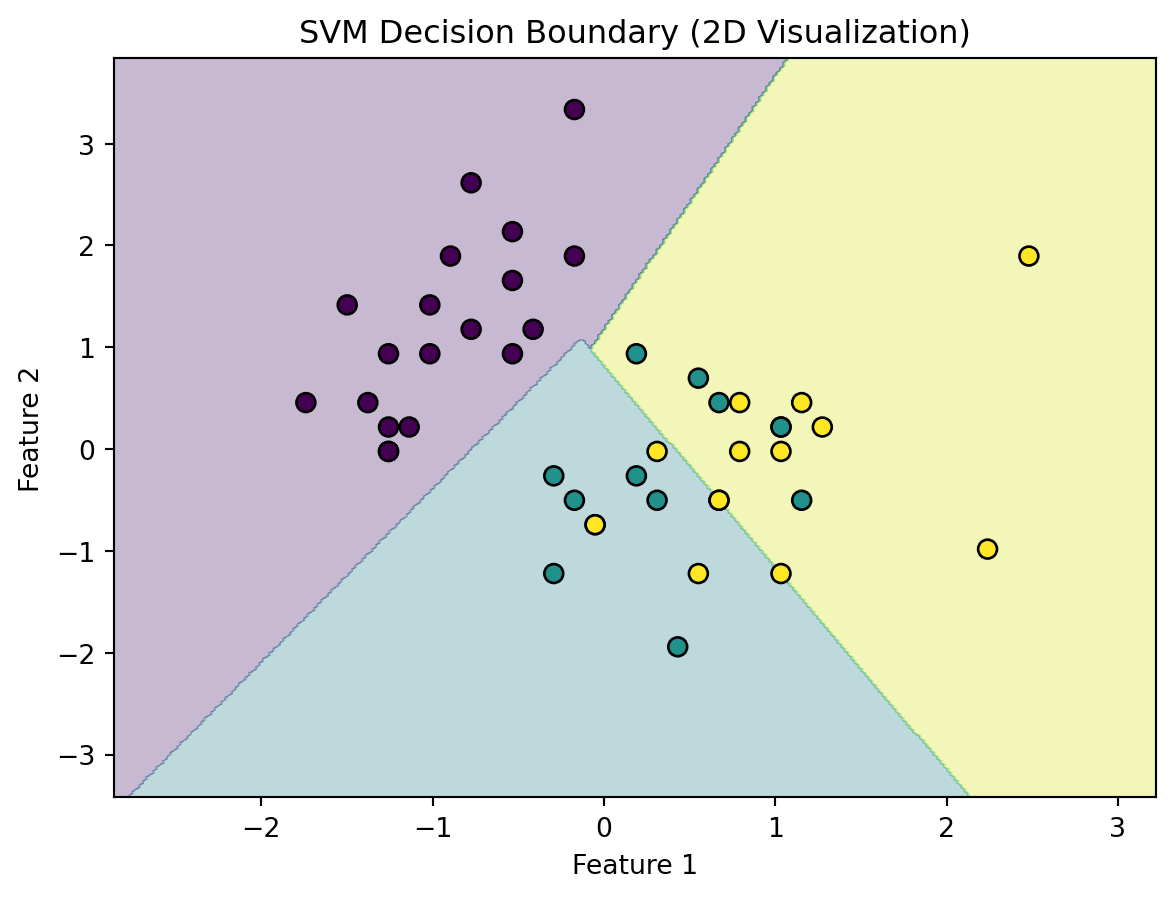
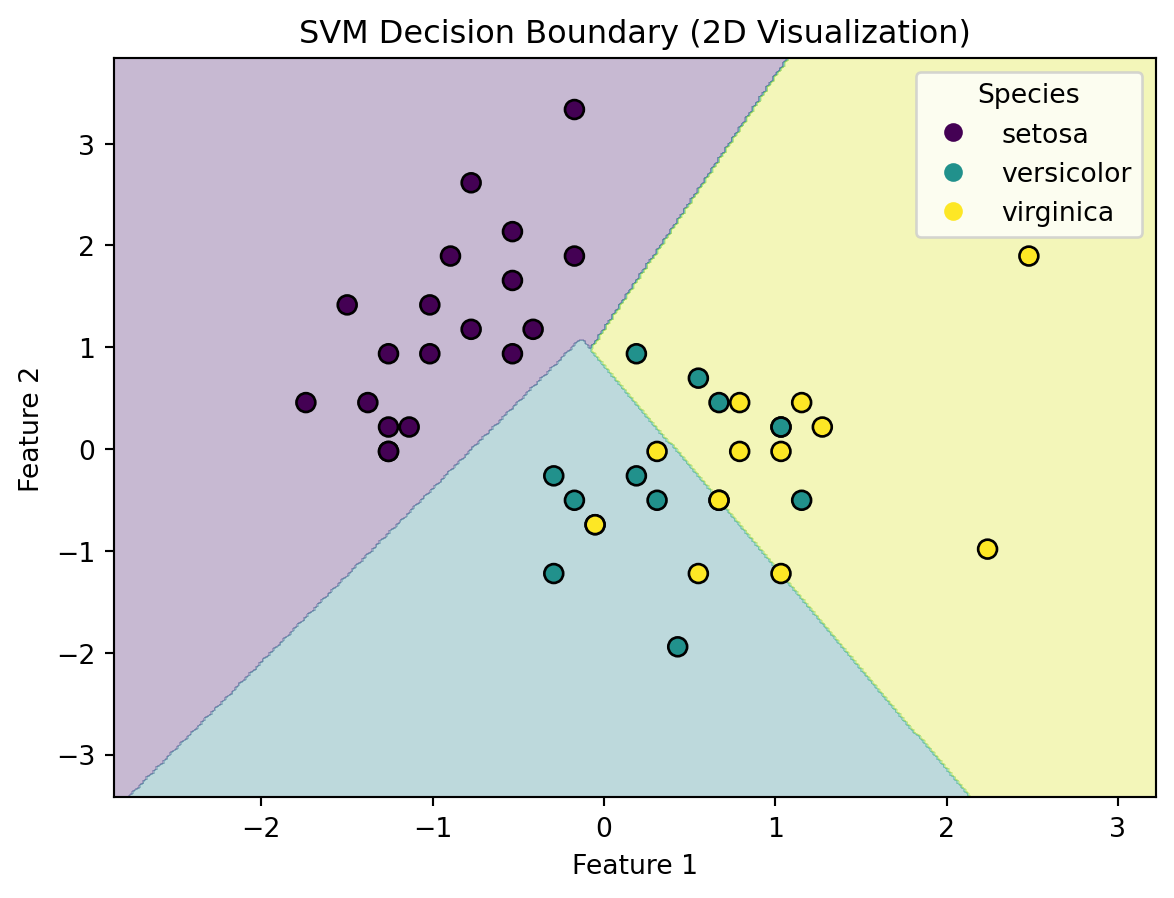
minor change

Changed region(s): [[0.7666, 0.0624, 0.9813, 0.2806]]

diff --git a/docs/posts/svm-tutorial/index.html b/docs/posts/svm-tutorial/index.html
@@ -182,7 +182,7 @@ pre > code.sourceCode > span > a:first-child::before { text-decoration: underlin
 <figcaption class="figure-caption">Figure from: “Build Email Spam Classification Model Using Python and SpaCy” by Divy Shah, Medium Blog post</figcaption>
 </figure>
 </div>
-<p>Classification can also reveal complex relationships between classes and patterns in the data. For example, in the context of fMRI data, classification helps researchers understand the relationship between neural activity patterns and cognitive or behavioral phenomena. Imagine we are showing a subject pictures of faces, scenes, and objects while recording their brain activity using fMRI. We know which picture was shown at each time point, allowing us to label the type of stimulus. The brain signals from each time point represent the features of that particular picture. With this labeled data, we can train a classifier to distinguish between images of faces, scenes, and objects. After training the classifier, we need to evaluate how well it can predict the category of an image it hasn’t seen before, like a new picture of a face. To verify this, we test it on a different set of images and measure its prediction accuracy. If it can predict the correct category more often than random guessing (which would yield a 33.33% accuracy with three classes), we can infer that the classifier has successfully learned to decode the brain signals associated with each stimulus type. If you are interested in learning more about classification for fMRI data, I would recommend checking out the <a href="https://brainiak.org/tutorials/">tutorials</a> from the Brain Imaging Analysis toolKit (BrainIAK).</p>
+<p>Classification can also reveal complex relationships between classes and patterns in the data. For example, in the context of fMRI data, classification helps researchers understand the relationship between neural activity patterns and cognitive or behavioral phenomena. Imagine we are showing a subject pictures of faces, scenes, and objects while recording their brain activity using fMRI. We know which picture was shown at each time point, allowing us to label the type of stimulus. With this labeled data, we can train a classifier to distinguish between images of faces, scenes, and objects. After training the classifier, we need to evaluate how well it can predict the category of an image it hasn’t seen before, like a new picture of a face. To verify this, we test it on a different set of images and measure its prediction accuracy. If it can predict the correct category more often than random guessing (which would yield a 33.33% accuracy with three classes), we can infer that the classifier has successfully learned to decode the brain activity associated with each stimulus type. If you are interested in learning more about classification for fMRI data, I would recommend checking out the <a href="https://brainiak.org/tutorials/">tutorials</a> from the Brain Imaging Analysis toolKit (BrainIAK).</p>
 <div class="quarto-figure quarto-figure-center">
 <figure class="figure">
 <p><img src="images/brain_decoding.jpg" class="img-fluid figure-img"></p>
@@ -193,7 +193,7 @@ pre > code.sourceCode > span > a:first-child::before { text-decoration: underlin
 </section>
 <section id="setup" class="level1">
 <h1>Setup</h1>
-<p>Before we dive into our example, ensure you have <code>scikit-learn</code> installed by following the <a href="https://scikit-learn.org/stable/install.html">installation instructions</a> specific to your operating system. You will also need to install the <a href="https://matplotlib.org/stable/users/installing/index.html"><code>matplotlib</code></a>, <a href="https://pandas.pydata.org/getting_started.html"><code>pandas</code></a>, <a href="https://seaborn.pydata.org/installing.html"><code>seaborn</code></a>, <a href="https://pypi.org/project/jupyter/"><code>jupyter</code></a>, and <a href="https://pypi.org/project/tabulate/"><code>tabulate</code></a> packages for data visualization. For most systems, running the below command in your bash shell should effectively download both packages:</p>
+<p>Before we dive into our example, ensure you have <code>scikit-learn</code> installed by following the <a href="https://scikit-learn.org/stable/install.html">installation instructions</a> specific to your operating system. You will also need to install the <a href="https://matplotlib.org/stable/users/installing/index.html"><code>matplotlib</code></a>, <a href="https://pandas.pydata.org/getting_started.html"><code>pandas</code></a>, <a href="https://seaborn.pydata.org/installing.html"><code>seaborn</code></a>, <a href="https://pypi.org/project/jupyter/"><code>jupyter</code></a>, and <a href="https://pypi.org/project/tabulate/"><code>tabulate</code></a> packages for data visualization. For most systems, running the below command in your bash shell should effectively download the packages:</p>
 <pre class="{bash}"><code>pip install scikit-learn matplotlib pandas seaborn jupyter tabulate</code></pre>
 <p>Next, we need to import the required libraries in Python:</p>
 <div class="cell" data-execution_count="1">
@@ -212,7 +212,7 @@ pre > code.sourceCode > span > a:first-child::before { text-decoration: underlin
 </section>
 <section id="dataset-preparation" class="level1">
 <h1>Dataset preparation</h1>
-<p>We are ready to run a classification analysis on the <a href="https://scikit-learn.org/stable/auto_examples/datasets/plot_iris_dataset.html">Iris dataset</a>.</p>
+<p>Now, we are ready to run a classification analysis on the <a href="https://scikit-learn.org/stable/auto_examples/datasets/plot_iris_dataset.html">Iris dataset</a>.</p>
 <p>The Iris dataset contains 150 samples, with each sample representing one of three species of iris flowers: Setosa, Versicolor, and Virginica. Each flower is described by four features: sepal length, sepal width, petal length, and petal width. The goal is to classify each flower into one of the three species based on these measurements. The simplicity and clear separability of the classes make this dataset an excellent choice for demonstrating the power and effectiveness of SVM classifiers.</p>
 <p>Our goal will be to classify different species of iris flowers based on their features.</p>
 <p>To ensure our classification model generalizes well to unseen data, we need to evaluate its performance on a separate subset of the data that isn’t used for training. To do this, we split the dataset into a training set and a testing set. In the provided code, <code>train_test_split</code> is used to randomly divide the data by allocating 70% to the training set (<code>X_train</code> and <code>y_train</code>) and 30% to the testing set (<code>X_test</code> and <code>y_test</code>). The <code>random_state</code> parameter ensures that the split is reproducible by producing the same random results each time.</p>
@@ -237,7 +237,7 @@ pre > code.sourceCode > span > a:first-child::before { text-decoration: underlin
 <p>With the data prepared, it’s time to train our SVM model! We will use the SVC (Support Vector Classification) class from <code>scikit-learn</code>.</p>
 <p>The training phase is crucial in machine learning. For SVM classifiers, training involves finding the best hyperplane that separates the classes in the feature space as distinctly as possible. Here’s a step-by-step breakdown of this process:</p>
 <ol type="1">
-<li><strong>Initialize the Classifier</strong>: We begin by initializing the SVM classifier. In this example, we use a linear kernel. The kernel choice depends on the dataset. Linear kernels are effective when there is a linear separability between the classes. However, for more complex datasets, other kernels such as polynomial or radial basis function (RBF) might be more suitable. We also specify a cost function (C), which is used to control the trade-off between achieving a low training error and maintaining a simpler, more generalizable decision boundary. A higher C value penalizes misclassifications more heavily, resulting in a narrower margin and fitting closely to the training data. This can help capture subtle patterns but also risks overfitting. A lower C value, however, softens the penalty for misclassifications, allowing more training points to fall within the margin, leading to a wider, more generalized decision boundary that is better at handling noise or variability in the data.</li>
+<li><strong>Initialize the Classifier</strong>: We begin by initializing the SVM classifier. In this example, we use a linear kernel. The kernel choice depends on the dataset. Linear kernels are effective when there is a linear separability between the classes. However, for more complex datasets, other kernels such as polynomial or radial basis function (RBF) might be more suitable. We also specify a cost function (C), which is used to control the trade-off between achieving a low training error and maintaining a simpler, more generalizable decision boundary. A higher C value penalizes misclassifications more heavily, resulting in a narrower margin and fitting closely to the training data. This can help capture subtle patterns but also risks overfitting. A lower C value softens the penalty for misclassifications, allowing more training points to fall within the margin. This leads to a wider, more generalized decision boundary that is better at handling noise or variability in the data.</li>
 <li><strong>Training the Model</strong>: This step involves fitting the classifier to the training data. The <code>fit</code> method of the SVC class takes the training data and the corresponding labels and finds the coefficients for the hyperplane that best separates the data according to the chosen kernel. SVM uses quadratic programming to optimize the separation margin. This involves solving a convex optimization problem to find the coefficients that maximize the margin while minimizing the classification error.</li>
 </ol>
 <div class="cell" data-result="hide" data-execution_count="3">
@@ -246,7 +246,7 @@ pre > code.sourceCode > span > a:first-child::before { text-decoration: underlin
 <span id="cb4-3"><a href="#cb4-3" aria-hidden="true" tabindex="-1"></a></span>
 <span id="cb4-4"><a href="#cb4-4" aria-hidden="true" tabindex="-1"></a><span class="co"># Train the model on the training data</span></span>
 <span id="cb4-5"><a href="#cb4-5" aria-hidden="true" tabindex="-1"></a>svc_model.fit(X_train, y_train)</span></code><button title="Copy to Clipboard" class="code-copy-button"><i class="bi"></i></button></pre></div>
-<div class="cell-output cell-output-display" data-execution_count="9">
+<div class="cell-output cell-output-display" data-execution_count="3">
 <pre><code>SVC(kernel='linear')</code></pre>
 </div>
 </div>
@@ -257,51 +257,57 @@ pre > code.sourceCode > span > a:first-child::before { text-decoration: underlin
 <p>How can we tell how well our model is performing?</p>
 <p><strong>Classication report:</strong> A classification report provides a summary of key evaluation metrics such as precision, recall, and F1 score for each class.</p>
 <ul>
-<li><strong>Precision</strong>: Out of all predictions made for a specific class, it represents how many were correct. It’s calculated as True Positives / (True Positives + False Positives).</li>
-<li><strong>Recall</strong>: The proportion of actual class samples that the model correctly identified. Calculated as True Positives / (True Positives + False Negatives).</li>
+<li><strong>Precision</strong>: Precision is the ratio of correctly predicted positive observations to the total predicted positives. It essentially answers the question: “Out of all the items labeled as a specific class, how many actually belong to that class?” Precision is calculated as True Positives / (True Positives + False Positives). High precision therefore corresponds to a low rate of false positives.</li>
+<li><strong>Recall</strong>: The proportion of actual class samples that the model correctly identified. Recall is calculated as True Positives / (True Positives + False Negatives). High recall corresponds to a low rate of false negatives.</li>
 <li><strong>F1 Score</strong>: The harmonic mean of precision and recall, providing a balanced metric that considers both measures.</li>
 <li><strong>Support</strong>: The number of occurrences of each class in the test set.</li>
 </ul>
+<p>In our case, the classification report shows a very high-performing model across all classes, with overall metrics close to 1, indicating that the classifier is both precise and robust in identifying the classes from the data.</p>
 <div class="cell" data-execution_count="4">
 <div class="sourceCode cell-code" id="cb6"><pre class="sourceCode python code-with-copy"><code class="sourceCode python"><span id="cb6-1"><a href="#cb6-1" aria-hidden="true" tabindex="-1"></a><span class="co"># Predict the labels for the test data</span></span>
 <span id="cb6-2"><a href="#cb6-2" aria-hidden="true" tabindex="-1"></a>y_pred <span class="op">=</span> svc_model.predict(X_test)</span>
 <span id="cb6-3"><a href="#cb6-3" aria-hidden="true" tabindex="-1"></a></span>
-<span id="cb6-4"><a href="#cb6-4" aria-hidden="true" tabindex="-1"></a><span class="co"># Create a pandas DataFrame from the classification report and confusion matrix</span></span>
+<span id="cb6-4"><a href="#cb6-4" aria-hidden="true" tabindex="-1"></a><span class="co"># Create a pandas DataFrame from the classification report</span></span>
 <span id="cb6-5"><a href="#cb6-5" aria-hidden="true" tabindex="-1"></a>report <span class="op">=</span> classification_report(y_test, y_pred, output_dict<span class="op">=</span><span class="va">True</span>)</span>
 <span id="cb6-6"><a href="#cb6-6" aria-hidden="true" tabindex="-1"></a>report_df <span class="op">=</span> pd.DataFrame(report).transpose()</span>
-<span id="cb6-7"><a href="#cb6-7" aria-hidden="true" tabindex="-1"></a><span class="bu">print</span>(<span class="st">"Classification Report:"</span>)</span>
-<span id="cb6-8"><a href="#cb6-8" aria-hidden="true" tabindex="-1"></a><span class="bu">print</span>(tabulate(report_df, headers<span class="op">=</span><span class="st">'keys'</span>, tablefmt<span class="op">=</span><span class="st">'pipe'</span>, showindex<span class="op">=</span><span class="va">True</span>))</span></code><button title="Copy to Clipboard" class="code-copy-button"><i class="bi"></i></button></pre></div>
+<span id="cb6-7"><a href="#cb6-7" aria-hidden="true" tabindex="-1"></a>species_names <span class="op">=</span> [<span class="st">"setosa"</span>, <span class="st">"versicolor"</span>, <span class="st">"virginica"</span>, <span class="st">""</span>, <span class="st">""</span>, <span class="st">""</span>]</span>
+<span id="cb6-8"><a href="#cb6-8" aria-hidden="true" tabindex="-1"></a>report_df.insert(<span class="dv">0</span>, <span class="st">'Species'</span>, species_names)</span>
+<span id="cb6-9"><a href="#cb6-9" aria-hidden="true" tabindex="-1"></a></span>
+<span id="cb6-10"><a href="#cb6-10" aria-hidden="true" tabindex="-1"></a><span class="bu">print</span>(<span class="st">"Classification Report:"</span>)</span>
+<span id="cb6-11"><a href="#cb6-11" aria-hidden="true" tabindex="-1"></a><span class="bu">print</span>(tabulate(report_df, headers<span class="op">=</span><span class="st">'keys'</span>, tablefmt<span class="op">=</span><span class="st">'pipe'</span>, showindex<span class="op">=</span><span class="va">True</span>))</span></code><button title="Copy to Clipboard" class="code-copy-button"><i class="bi"></i></button></pre></div>
 <div class="cell-output cell-output-stdout">
 <pre><code>Classification Report:
-|              |   precision |   recall |   f1-score |   support |
-|:-------------|------------:|---------:|-----------:|----------:|
-| 0            |    1        | 1        |   1        | 19        |
-| 1            |    1        | 0.923077 |   0.96     | 13        |
-| 2            |    0.928571 | 1        |   0.962963 | 13        |
-| accuracy     |    0.977778 | 0.977778 |   0.977778 |  0.977778 |
-| macro avg    |    0.97619  | 0.974359 |   0.974321 | 45        |
-| weighted avg |    0.979365 | 0.977778 |   0.977745 | 45        |</code></pre>
+|              | Species    |   precision |   recall |   f1-score |   support |
+|:-------------|:-----------|------------:|---------:|-----------:|----------:|
+| 0            | setosa     |    1        | 1        |   1        | 19        |
+| 1            | versicolor |    1        | 0.923077 |   0.96     | 13        |
+| 2            | virginica  |    0.928571 | 1        |   0.962963 | 13        |
+| accuracy     |            |    0.977778 | 0.977778 |   0.977778 |  0.977778 |
+| macro avg    |            |    0.97619  | 0.974359 |   0.974321 | 45        |
+| weighted avg |            |    0.979365 | 0.977778 |   0.977745 | 45        |</code></pre>
 </div>
 </div>
-<p><strong>Confusion Matrix</strong>: A confusion matrix shows the number of correct and incorrect predictions for each class, providing insight into which classes are being confused by the model.</p>
+<p><strong>Confusion Matrix</strong>: A confusion matrix shows the number of correct and incorrect predictions for each class, providing insight into which classes are being confused by the model. The confusion matrix has the following information:</p>
 <ul>
-<li><strong>True Positives (TP)</strong>: Correct predictions for a class.</li>
-<li><strong>False Positives (FP)</strong>: Incorrectly predicted as a particular class.</li>
-<li><strong>True Negatives (TN)</strong>: Correctly predicted as not belonging to a class.</li>
-<li><strong>False Negatives (FN)</strong>: Incorrectly predicted as not belonging to a class.</li>
+<li><strong>True Positives (TP)</strong>: Correct predictions for a class (e.g., class 0 as class 0).</li>
+<li><strong>False Positives (FP)</strong>: Incorrectly predicted as a particular class (e.g., predicting class 1 or 2 as class 0).</li>
+<li><strong>True Negatives (TN)</strong>: Correctly predicted as not belonging to a class (e.g., class 1 and 2 are not class 0 and are predicted as not class 0).</li>
+<li><strong>False Negatives (FN)</strong>: Incorrectly predicted as not belonging to a class (e.g., predicting class 0 as class 1 or 2).</li>
 </ul>
+<p>As a first pass, it is important to check the diagonal of the confusion matrix, as it plays a crucial role in evaluating the performance of our classifier. Each element along the diagonal represents the number of instances that were correctly classified for each respective class, providing a good indicator for overall accuracy.</p>
 <div class="cell" data-execution_count="5">
-<div class="sourceCode cell-code" id="cb8"><pre class="sourceCode python code-with-copy"><code class="sourceCode python"><span id="cb8-1"><a href="#cb8-1" aria-hidden="true" tabindex="-1"></a>conf_matrix <span class="op">=</span> confusion_matrix(y_test, y_pred)</span>
-<span id="cb8-2"><a href="#cb8-2" aria-hidden="true" tabindex="-1"></a>conf_matrix_df <span class="op">=</span> pd.DataFrame(conf_matrix, index<span class="op">=</span>iris.target_names, columns<span class="op">=</span>iris.target_names)</span>
-<span id="cb8-3"><a href="#cb8-3" aria-hidden="true" tabindex="-1"></a></span>
-<span id="cb8-4"><a href="#cb8-4" aria-hidden="true" tabindex="-1"></a><span class="co"># Plot the confusion matrix as a heatmap using seaborn</span></span>
-<span id="cb8-5"><a href="#cb8-5" aria-hidden="true" tabindex="-1"></a>plt.plot(figsize<span class="op">=</span>(<span class="dv">8</span>, <span class="dv">8</span>))</span>
-<span id="cb8-6"><a href="#cb8-6" aria-hidden="true" tabindex="-1"></a>sns.heatmap(conf_matrix_df, annot<span class="op">=</span><span class="va">True</span>, fmt<span class="op">=</span><span class="st">"d"</span>, cmap<span class="op">=</span><span class="st">"Blues"</span>, cbar<span class="op">=</span><span class="va">False</span>, square<span class="op">=</span><span class="va">True</span>)</span>
-<span id="cb8-7"><a href="#cb8-7" aria-hidden="true" tabindex="-1"></a>plt.ylabel(<span class="st">"Actual"</span>)</span>
-<span id="cb8-8"><a href="#cb8-8" aria-hidden="true" tabindex="-1"></a>plt.xlabel(<span class="st">"Predicted"</span>)</span>
-<span id="cb8-9"><a href="#cb8-9" aria-hidden="true" tabindex="-1"></a>plt.title(<span class="st">"Confusion Matrix"</span>)</span>
-<span id="cb8-10"><a href="#cb8-10" aria-hidden="true" tabindex="-1"></a>plt.tight_layout()</span>
-<span id="cb8-11"><a href="#cb8-11" aria-hidden="true" tabindex="-1"></a>plt.show()</span></code><button title="Copy to Clipboard" class="code-copy-button"><i class="bi"></i></button></pre></div>
+<div class="sourceCode cell-code" id="cb8"><pre class="sourceCode python code-with-copy"><code class="sourceCode python"><span id="cb8-1"><a href="#cb8-1" aria-hidden="true" tabindex="-1"></a><span class="co"># Create a pandas DataFrame from the confusion matrix</span></span>
+<span id="cb8-2"><a href="#cb8-2" aria-hidden="true" tabindex="-1"></a>conf_matrix <span class="op">=</span> confusion_matrix(y_test, y_pred)</span>
+<span id="cb8-3"><a href="#cb8-3" aria-hidden="true" tabindex="-1"></a>conf_matrix_df <span class="op">=</span> pd.DataFrame(conf_matrix, index<span class="op">=</span>iris.target_names, columns<span class="op">=</span>iris.target_names)</span>
+<span id="cb8-4"><a href="#cb8-4" aria-hidden="true" tabindex="-1"></a></span>
+<span id="cb8-5"><a href="#cb8-5" aria-hidden="true" tabindex="-1"></a><span class="co"># Plot the confusion matrix as a heatmap using seaborn</span></span>
+<span id="cb8-6"><a href="#cb8-6" aria-hidden="true" tabindex="-1"></a>plt.plot(figsize<span class="op">=</span>(<span class="dv">8</span>, <span class="dv">8</span>))</span>
+<span id="cb8-7"><a href="#cb8-7" aria-hidden="true" tabindex="-1"></a>sns.heatmap(conf_matrix_df, annot<span class="op">=</span><span class="va">True</span>, fmt<span class="op">=</span><span class="st">"d"</span>, cmap<span class="op">=</span><span class="st">"Blues"</span>, cbar<span class="op">=</span><span class="va">False</span>, square<span class="op">=</span><span class="va">True</span>)</span>
+<span id="cb8-8"><a href="#cb8-8" aria-hidden="true" tabindex="-1"></a>plt.ylabel(<span class="st">"Actual"</span>)</span>
+<span id="cb8-9"><a href="#cb8-9" aria-hidden="true" tabindex="-1"></a>plt.xlabel(<span class="st">"Predicted"</span>)</span>
+<span id="cb8-10"><a href="#cb8-10" aria-hidden="true" tabindex="-1"></a>plt.title(<span class="st">"Confusion Matrix"</span>)</span>
+<span id="cb8-11"><a href="#cb8-11" aria-hidden="true" tabindex="-1"></a>plt.tight_layout()</span>
+<span id="cb8-12"><a href="#cb8-12" aria-hidden="true" tabindex="-1"></a>plt.show()</span></code><button title="Copy to Clipboard" class="code-copy-button"><i class="bi"></i></button></pre></div>
 <div class="cell-output cell-output-display">
 <p><img src="index_files/figure-html/cell-6-output-1.png" width="448" height="468"></p>
 </div>
@@ -311,6 +317,7 @@ pre > code.sourceCode > span > a:first-child::before { text-decoration: underlin
 <h1>Decision boundary</h1>
 <p>Finally, let’s visualize the decision boundary for two features using a scatter plot. Visualizing this boundary allows us to understand the classifier’s decision-making process, even though SVMs generally work best with higher-dimensional data.</p>
 <p>For simplicity, we’ll visualize the decision boundary using only two features. This helps make the visualization easier to interpret, even though SVMs work better with all features.</p>
+<p>Even in 2 dimensions, we see that our classifier performs pretty well! There is some cross-over between the versicolor and verginica species. However, it is likely that these classes are more separable in higher dimensions.</p>
 <div class="cell" data-execution_count="6">
 <div class="sourceCode cell-code" id="cb9"><pre class="sourceCode python code-with-copy"><code class="sourceCode python"><span id="cb9-1"><a href="#cb9-1" aria-hidden="true" tabindex="-1"></a><span class="co"># Use only the first two features for visualization purposes</span></span>
 <span id="cb9-2"><a href="#cb9-2" aria-hidden="true" tabindex="-1"></a>X_vis <span class="op">=</span> X_train[:, :<span class="dv">2</span>]</span>
@@ -329,13 +336,19 @@ pre > code.sourceCode > span > a:first-child::before { text-decoration: underlin
 <span id="cb9-15"><a href="#cb9-15" aria-hidden="true" tabindex="-1"></a>Z <span class="op">=</span> svc_vis.predict(np.c_[xx.ravel(), yy.ravel()])</span>
 <span id="cb9-16"><a href="#cb9-16" aria-hidden="true" tabindex="-1"></a>Z <span class="op">=</span> Z.reshape(xx.shape)</span>
 <span id="cb9-17"><a href="#cb9-17" aria-hidden="true" tabindex="-1"></a></span>
-<span id="cb9-18"><a href="#cb9-18" aria-hidden="true" tabindex="-1"></a><span class="co"># Plot decision boundaries and data points</span></span>
-<span id="cb9-19"><a href="#cb9-19" aria-hidden="true" tabindex="-1"></a>plt.contourf(xx, yy, Z, alpha<span class="op">=</span><span class="fl">0.3</span>)</span>
-<span id="cb9-20"><a href="#cb9-20" aria-hidden="true" tabindex="-1"></a>plt.scatter(X_test_vis[:, <span class="dv">0</span>], X_test_vis[:, <span class="dv">1</span>], c<span class="op">=</span>y_test, s<span class="op">=</span><span class="dv">50</span>, edgecolor<span class="op">=</span><span class="st">'k'</span>)</span>
-<span id="cb9-21"><a href="#cb9-21" aria-hidden="true" tabindex="-1"></a>plt.xlabel(<span class="st">"Feature 1"</span>)</span>
-<span id="cb9-22"><a href="#cb9-22" aria-hidden="true" tabindex="-1"></a>plt.ylabel(<span class="st">"Feature 2"</span>)</span>
-<span id="cb9-23"><a href="#cb9-23" aria-hidden="true" tabindex="-1"></a>plt.title(<span class="st">"SVM Decision Boundary (2D Visualization)"</span>)</span>
-<span id="cb9-24"><a href="#cb9-24" aria-hidden="true" tabindex="-1"></a>plt.show()</span></code><button title="Copy to Clipboard" class="code-copy-button"><i class="bi"></i></button></pre></div>
+<span id="cb9-18"><a href="#cb9-18" aria-hidden="true" tabindex="-1"></a></span>
+<span id="cb9-19"><a href="#cb9-19" aria-hidden="true" tabindex="-1"></a><span class="co"># Plot decision boundaries and data points</span></span>
+<span id="cb9-20"><a href="#cb9-20" aria-hidden="true" tabindex="-1"></a>plt.contourf(xx, yy, Z, alpha<span class="op">=</span><span class="fl">0.3</span>)</span>
+<span id="cb9-21"><a href="#cb9-21" aria-hidden="true" tabindex="-1"></a>scatter <span class="op">=</span> plt.scatter(X_test_vis[:, <span class="dv">0</span>], X_test_vis[:, <span class="dv">1</span>], c<span class="op">=</span>y_test, s<span class="op">=</span><span class="dv">50</span>, edgecolor<span class="op">=</span><span class="st">'k'</span>)</span>
+<span id="cb9-22"><a href="#cb9-22" aria-hidden="true" tabindex="-1"></a></span>
+<span id="cb9-23"><a href="#cb9-23" aria-hidden="true" tabindex="-1"></a><span class="co"># Create a legend</span></span>
+<span id="cb9-24"><a href="#cb9-24" aria-hidden="true" tabindex="-1"></a>class_names <span class="op">=</span> [<span class="st">"setosa"</span>, <span class="st">"versicolor"</span>, <span class="st">"virginica"</span>]</span>
+<span id="cb9-25"><a href="#cb9-25" aria-hidden="true" tabindex="-1"></a>plt.legend(handles<span class="op">=</span>scatter.legend_elements()[<span class="dv">0</span>], labels<span class="op">=</span>class_names, title<span class="op">=</span><span class="st">"Species"</span>)</span>
+<span id="cb9-26"><a href="#cb9-26" aria-hidden="true" tabindex="-1"></a></span>
+<span id="cb9-27"><a href="#cb9-27" aria-hidden="true" tabindex="-1"></a>plt.xlabel(<span class="st">"Feature 1"</span>)</span>
+<span id="cb9-28"><a href="#cb9-28" aria-hidden="true" tabindex="-1"></a>plt.ylabel(<span class="st">"Feature 2"</span>)</span>
+<span id="cb9-29"><a href="#cb9-29" aria-hidden="true" tabindex="-1"></a>plt.title(<span class="st">"SVM Decision Boundary (2D Visualization)"</span>)</span>
+<span id="cb9-30"><a href="#cb9-30" aria-hidden="true" tabindex="-1"></a>plt.show()</span></code><button title="Copy to Clipboard" class="code-copy-button"><i class="bi"></i></button></pre></div>
 <div class="cell-output cell-output-display">
 <p><img src="index_files/figure-html/cell-7-output-1.png" width="587" height="449"></p>
 </div>

diff --git a/docs/index.html b/docs/index.html
@@ -158,7 +158,7 @@ ul.task-list li input[type="checkbox"] {
 
 <div class="quarto-listing quarto-listing-container-grid" id="listing-listing">
 <div class="list grid quarto-listing-cols-3">
-<div class="g-col-1" data-index="0" data-categories="python,classification,machine learning" data-listing-date-sort="1716523200000" data-listing-file-modified-sort="1715566645554" data-listing-date-modified-sort="NaN" data-listing-reading-time-sort="10">
+<div class="g-col-1" data-index="0" data-categories="python,classification,machine learning" data-listing-date-sort="1716523200000" data-listing-file-modified-sort="1715634080330" data-listing-date-modified-sort="NaN" data-listing-reading-time-sort="11">
 <a href="./posts/svm-tutorial/index.html" class="quarto-grid-link">
 <div class="quarto-grid-item card h-100 card-left">
 <p class="card-img-top">
